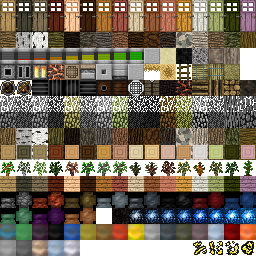
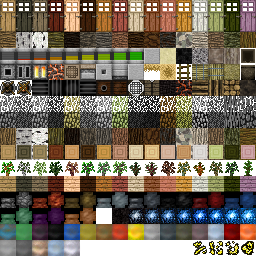
added autoejection for all tfc containers, added crucible texture and some code for it

Changed region(s): [[0.9375, 0.1875, 1.0, 0.3125]]

diff --git a/TFC_Client/src/TFC/Render/Blocks/RenderCrucible.java b/TFC_Client/src/TFC/Render/Blocks/RenderCrucible.java
@@ -1,0 +1,100 @@
+package TFC.Render.Blocks;
+
+import org.lwjgl.opengl.GL11;
+
+import cpw.mods.fml.client.registry.ISimpleBlockRenderingHandler;
+
+import TFC.TFCBlocks;
+import TFC.Blocks.BlockToolRack;
+import TFC.Render.TFC_CoreRender;
+import TFC.TileEntities.TileEntityPartial;
+import TFC.TileEntities.TileEntityQuern;
+import cpw.mods.fml.relauncher.Side;
+import cpw.mods.fml.relauncher.SideOnly;
+import net.minecraft.client.entity.*;
+import net.minecraft.client.gui.inventory.*;
+import net.minecraft.client.model.*;
+import net.minecraft.client.renderer.*;
+import net.minecraft.client.renderer.entity.*;
+import net.minecraft.block.*;
+import net.minecraft.block.material.*;
+import net.minecraft.crash.*;
+import net.minecraft.creativetab.*;
+import net.minecraft.entity.*;
+import net.minecraft.entity.ai.*;
+import net.minecraft.entity.effect.*;
+import net.minecraft.entity.item.*;
+import net.minecraft.entity.monster.*;
+import net.minecraft.entity.player.*;
+import net.minecraft.entity.projectile.*;
+import net.minecraft.inventory.*;
+import net.minecraft.item.*;
+import net.minecraft.nbt.*;
+import net.minecraft.network.*;
+import net.minecraft.network.packet.*;
+import net.minecraft.pathfinding.*;
+import net.minecraft.potion.*;
+import net.minecraft.server.*;
+import net.minecraft.src.ModLoader;
+import net.minecraft.stats.*;
+import net.minecraft.tileentity.*;
+import net.minecraft.util.*;
+import net.minecraft.village.*;
+import net.minecraft.world.*;
+import net.minecraftforge.client.ForgeHooksClient;
+
+public class RenderCrucible  implements ISimpleBlockRenderingHandler 
+{
+	@Override
+	public boolean renderWorldBlock(IBlockAccess world, int i, int j, int k,
+			Block block, int modelId, RenderBlocks renderblocks) 
+	{
+		block.setBlockBounds(0.0625f, 0f, 0.0625f, 0.9375f, 0.9375f, 0.9375f);
+		return false;
+	}
+
+	@Override
+	public void renderInventoryBlock(Block block, int metadata, int modelID,
+			RenderBlocks renderer) {
+		
+		renderer.setRenderMinMax(0.0625, 0, 0.0625, 0.9375, 0.9375, 0.9375);
+		
+		renderInvBlock(block,renderer);
+		
+	}
+	@Override
+	public boolean shouldRender3DInInventory() {
+		// TODO Auto-generated method stub
+		return true;
+	}
+	@Override
+	public int getRenderId() {
+		// TODO Auto-generated method stub
+		return 0;
+	}
+	
+	public static void renderInvBlock(Block block, RenderBlocks renderer)
+	{
+		Tessellator var14 = Tessellator.instance;
+		var14.startDrawingQuads();
+		var14.setNormal(0.0F, 1.0F, 0.0F);
+		renderer.renderTopFace(block, 0.0D, 0.0D, 0.0D, block.getBlockTextureFromSideAndMetadata(1, 1));
+		var14.draw();
+		var14.startDrawingQuads();
+		var14.setNormal(0.0F, 0.0F, -1.0F);
+		renderer.renderEastFace(block, 0.0D, 0.0D, 0.0D, block.getBlockTextureFromSideAndMetadata(2, 0));
+		var14.draw();
+		var14.startDrawingQuads();
+		var14.setNormal(0.0F, 0.0F, 1.0F);
+		renderer.renderWestFace(block, 0.0D, 0.0D, 0.0D, block.getBlockTextureFromSideAndMetadata(3, 0));
+		var14.draw();
+		var14.startDrawingQuads();
+		var14.setNormal(-1.0F, 0.0F, 0.0F);
+		renderer.renderNorthFace(block, 0.0D, 0.0D, 0.0D, block.getBlockTextureFromSideAndMetadata(4, 0));
+		var14.draw();
+		var14.startDrawingQuads();
+		var14.setNormal(1.0F, 0.0F, 0.0F);
+		renderer.renderSouthFace(block, 0.0D, 0.0D, 0.0D, block.getBlockTextureFromSideAndMetadata(5, 0));
+		var14.draw();
+	}
+}

diff --git a/TFC_Shared/src/TFC/Blocks/BlockToolRack.java b/TFC_Shared/src/TFC/Blocks/BlockToolRack.java
@@ -38,7 +38,7 @@ import net.minecraft.world.biome.*;
 import net.minecraft.world.chunk.*;
 import net.minecraft.world.gen.feature.*;
 
-public class BlockToolRack extends BlockContainer
+public class BlockToolRack extends BlockTerraContainer
 {
 	public BlockToolRack(int par1)
 	{
@@ -85,17 +85,6 @@ public class BlockToolRack extends BlockContainer
 	public int getRenderType()
 	{
 		return TFCBlocks.toolRackRenderId;
-	}
-
-	public void Eject(World par1World, int par2, int par3, int par4)
-	{
-		if((TileEntityToolRack)par1World.getBlockTileEntity(par2, par3, par4)!=null)
-		{
-			TileEntityToolRack te;
-			te = (TileEntityToolRack)par1World.getBlockTileEntity(par2, par3, par4);
-			te.ejectContents();
-			par1World.removeBlockTileEntity(par2, par3, par4);
-		}
 	}
 
 	public boolean onBlockActivated(World world, int i, int j, int k, EntityPlayer entityplayer, int side, float hitX, float hitY, float hitZ)
@@ -211,13 +200,6 @@ public class BlockToolRack extends BlockContainer
 	{
 		
 	}
-	
-	@Override
-	public void breakBlock(World world, int x, int y, int z, int blockId, int metadata)
-	{
-		Eject(world, x, y, z);
-		super.breakBlock(world, x, y, z, blockId, metadata);
-	}
 
 	@Override
 	public TileEntity createNewTileEntity(World var1) {
@@ -281,7 +263,7 @@ public class BlockToolRack extends BlockContainer
 		{
 			if(!world.isBlockOpaqueCube(i, j, k+1))
 			{
-				Eject(world,i,j,k);
+				this.breakBlock(world, i, j, k, blockID, dir);
 				world.setBlock(i, j, k, 0);
 			}
 		}
@@ -289,7 +271,7 @@ public class BlockToolRack extends BlockContainer
 		{
 			if(!world.isBlockOpaqueCube(i-1, j, k))
 			{
-				Eject(world,i,j,k);
+				this.breakBlock(world, i, j, k, blockID, dir);
 				world.setBlock(i, j, k, 0);
 			}
 		}
@@ -297,7 +279,7 @@ public class BlockToolRack extends BlockContainer
 		{
 			if(!world.isBlockOpaqueCube(i, j, k-1))
 			{
-				Eject(world,i,j,k);
+				this.breakBlock(world, i, j, k, blockID, dir);
 				world.setBlock(i, j, k, 0);
 			}
 		}
@@ -305,7 +287,7 @@ public class BlockToolRack extends BlockContainer
 		{
 			if(!world.isBlockOpaqueCube(i+1, j, k))
 			{
-				Eject(world,i,j,k);
+				this.breakBlock(world, i, j, k, blockID, dir);
 				world.setBlock(i, j, k, 0);
 			}
 		}

diff --git a/TFC_Client/src/TFC/ClientProxy.java b/TFC_Client/src/TFC/ClientProxy.java
@@ -66,6 +66,7 @@ import TFC.GUI.*;
 import TFC.Handlers.*;
 import TFC.Items.*;
 import TFC.Render.*;
+import TFC.Render.Blocks.RenderCrucible;
 import TFC.Render.Blocks.RenderQuern;
 import TFC.TileEntities.*;
 import TFC.WorldGen.TFCBiome;
@@ -106,6 +107,7 @@ public class ClientProxy extends CommonProxy
 		MinecraftForgeClient.preloadTexture("/bioxx/gui_foodprep.png");
 		MinecraftForgeClient.preloadTexture(TFC_Textures.FoodSheet);
 		MinecraftForgeClient.preloadTexture("/bioxx/gui_blueprint.png");
+		MinecraftForgeClient.preloadTexture("/bioxx/gui_crucible.png");
 
 		ColorizerFoliageTFC.getFoilageBiomeColorizer(ModLoader.getMinecraftInstance().renderEngine.getTextureContents("/misc/foliagecolor.png"));
 		ColorizerGrassTFC.setGrassBiomeColorizer(ModLoader.getMinecraftInstance().renderEngine.getTextureContents("/misc/grasscolor.png"));
@@ -165,6 +167,7 @@ public class ClientProxy extends CommonProxy
 		RenderingRegistry.registerBlockHandler(TFCBlocks.fluidRenderId = RenderingRegistry.getNextAvailableRenderId(), new BlockRenderHandler());
 		RenderingRegistry.registerBlockHandler(TFCBlocks.woodConstructRenderId = RenderingRegistry.getNextAvailableRenderId(), new BlockRenderHandler());
 		RenderingRegistry.registerBlockHandler(TFCBlocks.superDetailedRenderId = RenderingRegistry.getNextAvailableRenderId(), new BlockRenderHandler());
+		RenderingRegistry.registerBlockHandler(TFCBlocks.crucibleRenderId = RenderingRegistry.getNextAvailableRenderId(), new RenderCrucible());
 	}
 	
 	public void registerTileEntities(boolean b)

diff --git a/TFC_Shared/src/TFC/Blocks/BlockTerraContainer.java b/TFC_Shared/src/TFC/Blocks/BlockTerraContainer.java
@@ -33,16 +33,16 @@ import net.minecraft.world.chunk.*;
 
 public abstract class BlockTerraContainer extends BlockContainer
 {
-	protected BlockTerraContainer(int par1) 
+	public BlockTerraContainer(int par1) 
 	{
 		super(par1, Material.rock);
 	}
-	protected BlockTerraContainer(int par1,int par2, Material material) 
+	public BlockTerraContainer(int par1,int par2, Material material) 
 	{
 		super(par1,par2, material);
 	}
 
-	protected BlockTerraContainer(int par1, Material material) 
+	public BlockTerraContainer(int par1, Material material) 
 	{
 		super(par1, material);
 	}
@@ -85,5 +85,27 @@ public abstract class BlockTerraContainer extends BlockContainer
 	@Override
 	public TileEntity createNewTileEntity(World var1) {
 		return null;
+	}
+	
+	@Override
+	public void breakBlock(World world, int x, int y, int z, int blockId, int metadata)
+	{
+		TileEntity te = world.getBlockTileEntity(x, y, z);
+		if(te != null)
+		{
+			if(te instanceof IInventory)
+			{
+				for(int i = 0; i< ((IInventory)te).getSizeInventory(); i++)
+				{
+					if(((IInventory)te).getStackInSlot(i) != null)
+					{
+						EntityItem ei = new EntityItem(world, x, y, z, ((IInventory)te).getStackInSlot(i));
+						ei.motionY = 0.4;
+						world.spawnEntityInWorld(ei);
+					}
+				}
+			}
+		}
+		super.breakBlock(world, x, y, z, blockId, metadata);
 	}
 }

diff --git a/TFC_Shared/src/TFC/Blocks/BlockCrucible.java b/TFC_Shared/src/TFC/Blocks/BlockCrucible.java
@@ -1,0 +1,55 @@
+package TFC.Blocks;
+
+import TFC.TFCBlocks;
+import TFC.TileEntities.TileEntityToolRack;
+import net.minecraft.block.material.Material;
+import net.minecraft.entity.player.EntityPlayer;
+import net.minecraft.world.World;
+
+public class BlockCrucible extends BlockTerraContainer
+{
+	public BlockCrucible(int par1) 
+	{
+		super(par1, Material.rock);
+		this.setBlockBounds(0.0625f, 0f, 0.0625f, 0.9375f, 0.9375f, 0.9375f);
+		this.blockIndexInTexture = 79;
+	}
+	
+	@Override
+	public boolean isOpaqueCube()
+	{
+		return false;
+	}
+	
+	@Override
+	public boolean renderAsNormalBlock()
+	{
+		return false;
+	}
+	
+//	@Override
+//	public int getRenderType()
+//	{
+//		return TFCBlocks.toolRackRenderId;
+//	}
+	
+	@Override
+	public int getBlockTextureFromSideAndMetadata(int i, int j)
+	{
+		if(i == 0 || i == 1)
+			return blockIndexInTexture - 16;
+		
+		return blockIndexInTexture;
+	}
+	
+	@Override
+	public boolean onBlockActivated(World world, int i, int j, int k, EntityPlayer entityplayer, int side, float hitX, float hitY, float hitZ)
+	{
+		if(!world.isRemote)
+		{
+
+		}
+		return false;
+	}
+	
+}

diff --git a/TFC_Shared/src/TFC/Blocks/BlockForge.java b/TFC_Shared/src/TFC/Blocks/BlockForge.java
@@ -135,29 +135,6 @@ public class BlockForge extends BlockTerraContainer
 	{
 		return TFCBlocks.ForgeRenderId;
 	}
-
-	@Override
-	public void harvestBlock(World world, EntityPlayer entityplayer, int i, int j, int k, int l)
-	{		
-		Eject(world,i,j,k);
-	}
-	
-	@Override
-    public void breakBlock(World par1World, int par2, int par3, int par4, int par5, int par6)
-    {
-    	Eject(par1World,par2,par3,par4);
-    }
-	
-	public void Eject(World par1World, int par2, int par3, int par4)
-    {
-        if((TileEntityTerraForge)par1World.getBlockTileEntity(par2, par3, par4)!=null)
-        {
-        	TileEntityTerraForge tileentityanvil;
-            tileentityanvil = (TileEntityTerraForge)par1World.getBlockTileEntity(par2, par3, par4);
-            tileentityanvil.ejectContents();
-            par1World.removeBlockTileEntity(par2, par3, par4);
-        }
-    }
 	
 	@Override
 	public boolean isOpaqueCube()

diff --git a/TFC_Shared/src/TFC/Blocks/BlockFirepit.java b/TFC_Shared/src/TFC/Blocks/BlockFirepit.java
@@ -242,12 +242,6 @@ public class BlockFirepit extends BlockTerraContainer
     public void onBlockDestroyedByPlayer(World par1World, int par2, int par3, int par4, int par5) {
         Eject(par1World,par2,par3,par4);
     }
-    
-    @Override
-    public void breakBlock(World par1World, int par2, int par3, int par4, int par5, int par6)
-    {
-    	Eject(par1World,par2,par3,par4);
-    }
 
     //public void onBlockRemoval(World par1World, int par2, int par3, int par4) {Eject(par1World,par2,par3,par4);}
     

diff --git a/TFC_Shared/src/TFC/Blocks/BlockChestTFC.java b/TFC_Shared/src/TFC/Blocks/BlockChestTFC.java
@@ -39,7 +39,7 @@ import net.minecraft.world.chunk.*;
 import net.minecraft.world.gen.feature.*;
 import net.minecraftforge.common.ForgeDirection;
 
-public class BlockChestTFC extends BlockContainer
+public class BlockChestTFC extends BlockTerraContainer
 {
     private Random random = new Random();
 

diff --git a/TFC_Shared/src/TFC/TFCBlocks.java b/TFC_Shared/src/TFC/TFCBlocks.java
@@ -72,6 +72,7 @@ public class TFCBlocks
 	public static int nestboxRenderId;
 	public static int woodConstructRenderId;
 	public static int superDetailedRenderId;
+	public static int crucibleRenderId;
 	
 	public static Block StoneIgIn;
 	public static Block StoneIgEx;
